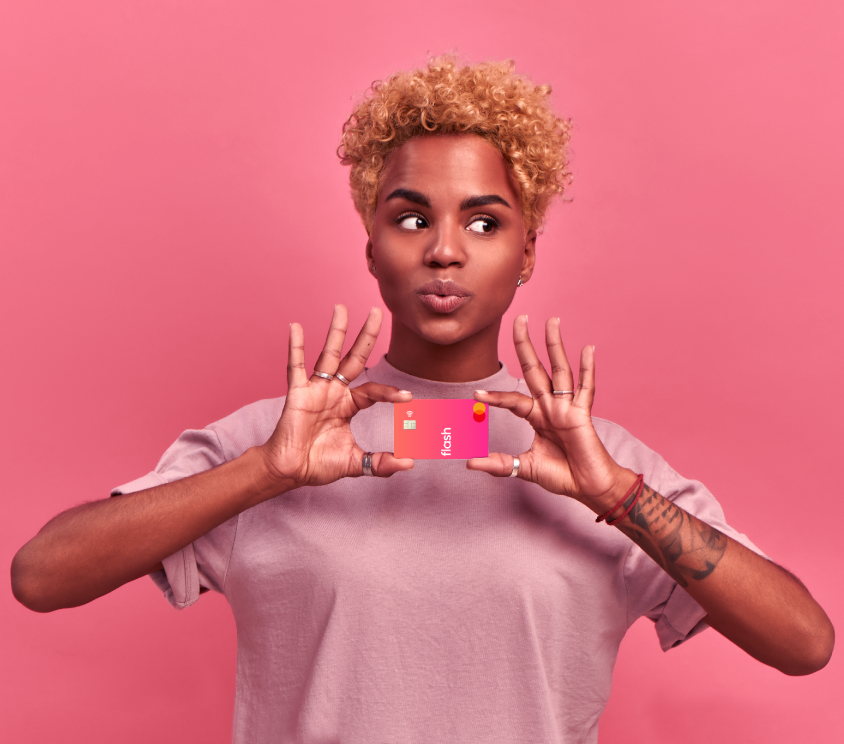
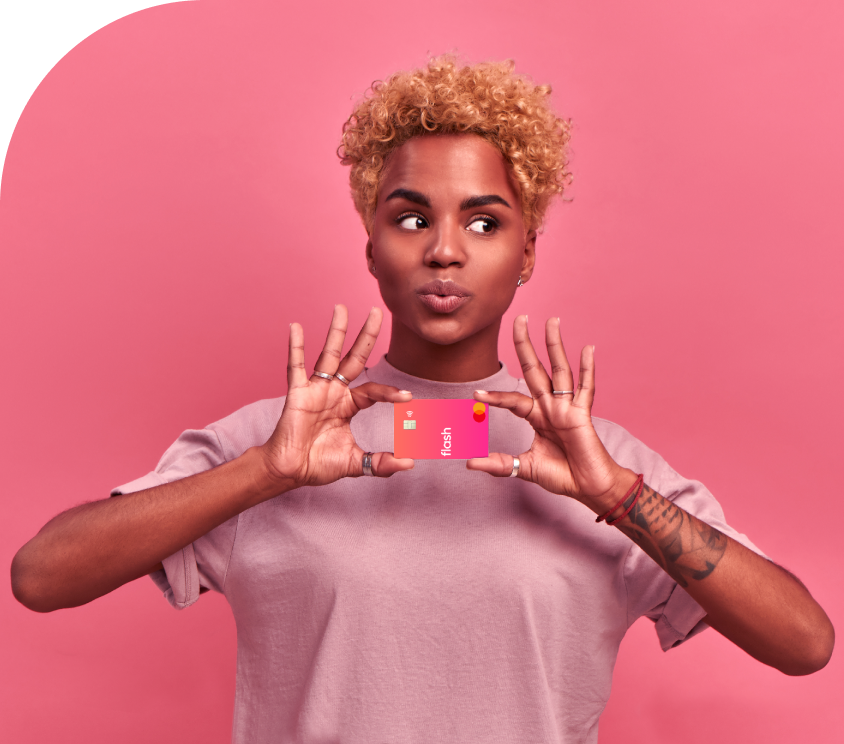
💄 feat: build benefits page

Changed region(s): [[0.0, 0.0, 0.2156, 0.2473]]

diff --git a/src/app/hr/components/Stats.tsx b/src/app/hr/components/Stats.tsx
@@ -1,30 +1,30 @@
 export function Stats() {
   return (
-    <section className="w-full max-w-7xl mx-auto px-6 bg-pink-50 rounded-2xl -mt-7 border-2 border-pink-500/10">
-      <div className="w-full py-14 px-20 flex flex-col gap-10 md:gap-0 md:flex-row justify-around bg-white dark:bg-white/5 rounded-xl">
-        <div className="flex flex-col items-center gap-4">
+    <section className="w-full px-6 bg-pink-100 -skew-y-2 -skew-x-3 -mt-6 z-30">
+      <div className="w-full mx-7xl mx-auto  py-14 px-20 flex flex-col gap-10 md:gap-0 md:flex-row justify-around bg-white dark:bg-white/5 rounded-xl max-w-7xl">
+        <div className="flex items-center gap-4">
           <span className="text-5xl font-title font-extrabold text-zinc-600">
             +7K
           </span>
-          <p className="text-gray-400">Empresas</p>
+          <p className="text-zinc-500">Empresas</p>
         </div>
 
         <div className="md:w-px md:h-24 w-full h-px bg-zinc-400/20" />
 
-        <div className="flex flex-col items-center gap-4">
+        <div className="flex items-center gap-4">
           <span className="text-5xl font-title font-extrabold text-zinc-600">
             +600K
           </span>
-          <p className="text-gray-400">Usuários</p>
+          <p className="text-zinc-500">Usuários</p>
         </div>
 
         <div className="md:w-px md:h-24 w-full h-px bg-zinc-400/20" />
 
-        <div className="flex flex-col items-center gap-4">
+        <div className="flex items-center gap-4">
           <span className="text-5xl font-title font-extrabold text-zinc-600">
             +4M
           </span>
-          <p className="text-gray-400">Estabelecimentos</p>
+          <p className="text-zinc-500">Estabelecimentos</p>
         </div>
       </div>
     </section>

diff --git a/src/app/hr/components/Pricing.tsx b/src/app/hr/components/Pricing.tsx
@@ -4,7 +4,7 @@ export function Pricing() {
   return (
     <section className="w-full py-20 max-w-7xl mx-auto flex flex-col items-center">
       <div className="flex flex-col items-center ">
-        <span className="text-sm text-pink-500 mb-2">Dentre disso tudo...</span>
+        <span className="text-sm text-pink-500 mb-2">Dentro disso tudo...</span>
         <h4 className="font-title text-5xl font-bold max-w-2xl text-center tracking-tight">
           Por que escolher a{' '}
           <span className="bg-clip-text text-transparent bg-gradient-to-r from-pink-400 to-pink-500">
@@ -12,8 +12,8 @@ export function Pricing() {
           </span>
         </h4>
         <p className="leading-relaxed mt-6 text-center max-w-2xl">
-          Alguns depoimentos de nossos clientes e usuários sobre nossos
-          produtos.
+          Aproveite tudo por zero de taxa de contratação e utilização de nossos
+          serviços primários.
         </p>
       </div>
 
@@ -27,7 +27,7 @@ export function Pricing() {
         <div className="flex flex-col gap-6 mt-6">
           <p className="text-zinc-500">O produto ideal para seu RH</p>
           <strong className="font-title text-5xl font-black tracking-tighter text-zinc-800">
-            R$ 00,00
+            Grátis
           </strong>
           <button className="py-4 rounded-lg bg-pink-400 text-white font-bold border-2 border-pink-400 hover:bg-transparent hover:text-zinc-600 transition-colors duration-150">
             Contratar agora

diff --git a/src/app/hr/components/Features.tsx b/src/app/hr/components/Features.tsx
@@ -1,0 +1,25 @@
+import Image from 'next/image'
+
+import points from '../../../assets/feature-1.png'
+import customizable from '../../../assets/feature-2.png'
+
+export function Features() {
+  return (
+    <section className="w-full py-20 max-w-7xl mx-auto">
+      <div className="flex flex-col items-center">
+        <span className="text-sm text-pink-500 mb-2">Exclusividade</span>
+        <h4 className="font-title text-5xl font-bold max-w-2xl text-center">
+          Produtos{' '}
+          <span className="bg-clip-text text-transparent bg-gradient-to-r from-pink-400 to-pink-500">
+            exclusivos
+          </span>{' '}
+          que você só encontra aqui
+        </h4>
+        <p className="leading-relaxed mt-6 text-center max-w-2xl">
+          Pague suas despesas a trabalho no mesmo cartão. Gerencie os gastos e
+          faça a prestação de contas direto no aplicativo. Simples e fácil.
+        </p>
+      </div>
+    </section>
+  )
+}

diff --git a/src/app/hr/page.tsx b/src/app/hr/page.tsx
@@ -1,5 +1,6 @@
 import { About } from './components/About'
 import { Cta } from './components/Cta'
+import { Features } from './components/Features'
 import { Hero } from './components/Hero'
 import { Pricing } from './components/Pricing'
 import { Stats } from './components/Stats'
@@ -10,6 +11,7 @@ export default function HumanResources() {
       <Hero />
       <Stats />
       <About />
+      <Features />
       <Pricing />
       <Cta />
     </div>

diff --git a/tailwind.config.js b/tailwind.config.js
@@ -10,6 +10,15 @@ module.exports = {
       fontFamily: {
         title: 'var(--font-familjen-grotesk)',
       },
+      keyframes: {
+        enterFromUp: {
+          from: { opacity: 0, transform: 'translatey(200px)' },
+          to: { opacity: 1, transform: 'translatey(0)' },
+        },
+      },
+      animation: {
+        enterFromUp: 'enterFromUp 250ms ease',
+      },
       colors: {
         pink: {
           100: '#f3e2e6',

diff --git a/src/app/hr/components/About.tsx b/src/app/hr/components/About.tsx
@@ -6,7 +6,7 @@ export function About() {
   return (
     <section className="w-full py-20 ">
       <div className="w-full max-w-7xl mx-auto flex justify-between items-center">
-        <Image src={about} alt="" />
+        <Image src={about} alt="" className="max-w-lg w-full" />
         <div className="max-w-2xl">
           <span className="text-sm text-pink-500 mb-2">
             Pra que complexidade?

diff --git a/src/components/SubMenuProducts.tsx b/src/components/SubMenuProducts.tsx
@@ -18,7 +18,7 @@ interface SubMenuProductsProps {
 
 export function SubMenuProducts(props: SubMenuProductsProps) {
   return (
-    <NavigationMenu.Root delayDuration={100} skipDelayDuration={2000}>
+    <NavigationMenu.Root delayDuration={100}>
       <NavigationMenu.List>
         <NavigationMenu.Item>
           <NavigationMenu.Trigger asChild>

diff --git a/src/app/hr/components/Hero.tsx b/src/app/hr/components/Hero.tsx
@@ -34,7 +34,7 @@ export function Hero() {
           height={582}
           alt=""
           priority={true}
-          className="max-w-lg w-full rounded-tl-[80px] mr-2"
+          className="max-w-lg w-full mr-2"
         />
       </div>
     </section>

diff --git a/src/app/globals.css b/src/app/globals.css
@@ -15,7 +15,6 @@ body {
     from {
         right: -100vw;
     }
-  
     to {
         right: 0;
     }
